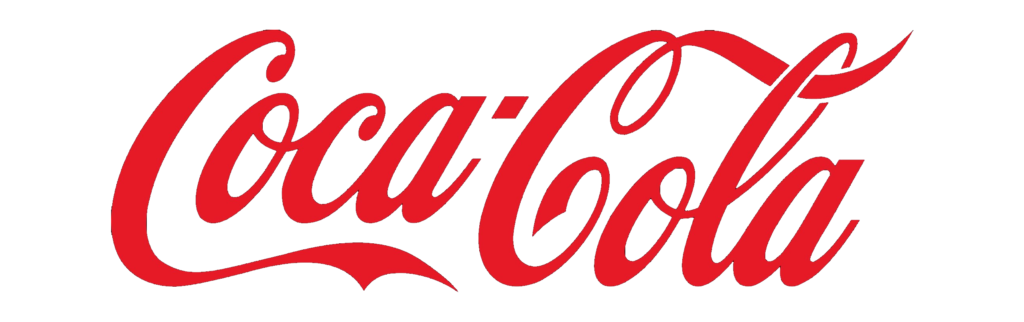
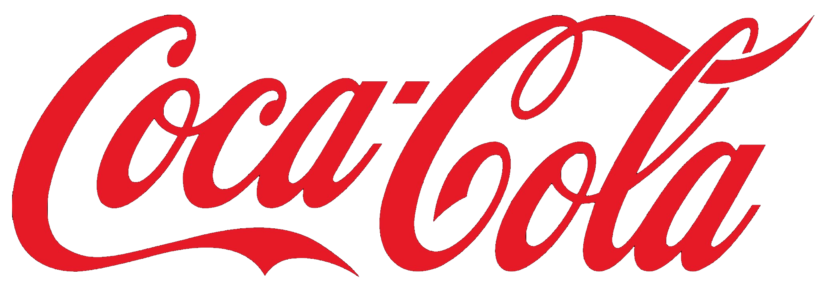
chore: restyle sponsorer and add thanks note

diff --git a/ui/src/modules/basket/sponsors/components/FIRI/Jets/Sponsors.tsx b/ui/src/modules/basket/sponsors/components/FIRI/Jets/Sponsors.tsx
@@ -5,7 +5,7 @@ import SponsorsContainer from "../../shared/SponsorsContainer";
 import nte from "./sponsors/nte.png";
 import norbit from "./sponsors/norbit.png";
 import hufs from "./sponsors/hufs.png";
-import multRenhold from "./sponsors/multi_renhold.jpg";
+import multRenhold from "./sponsors/multi_renhold.png";
 import cola from "./sponsors/cola.png";
 import nidarosSparebank from "./sponsors/nidaros_sparebank.png";
 import weCanDoIt from "./sponsors/we_can_do_it.png";
@@ -32,10 +32,10 @@ const JetsSponsors: React.FC = () => {
     nte,
     weCanDoIt,
     nidarosSparebank,
-    norbit,
+    multRenhold,
     cola,
     hufs,
-    multRenhold,
+    norbit,
     soulsport,
   ];
 

diff --git a/ui/src/modules/basket/sponsors/components/shared/SponsorsContainer.tsx b/ui/src/modules/basket/sponsors/components/shared/SponsorsContainer.tsx
@@ -6,7 +6,16 @@ type SponsorsContainerProps = {
 };
 
 const SponsorsContainer: React.FC<SponsorsContainerProps> = ({ children }) => {
-  return <div className={styles.container}>{children}</div>;
+  return (
+    <div className={styles.container}>
+      <div style={{ display: "flex", flexDirection: "column", height: "100%" }}>
+        <h1 style={{ textAlign: "center" }}>
+          Teamname vil takke sine sponsorer
+        </h1>
+        {children}
+      </div>
+    </div>
+  );
 };
 
 export default SponsorsContainer;

diff --git a/ui/src/modules/basket/sponsors/components/shared/SponsorsContainer.module.css b/ui/src/modules/basket/sponsors/components/shared/SponsorsContainer.module.css
@@ -19,15 +19,16 @@
   width: 96%;
   align-items: center;
   justify-content: space-around;
-  height: 33%;
+  height: 30%;
 }
 
 .item {
   display: flex;
-  margin: 5%;
+  margin: 2%;
   width: 100%;
   justify-content: center;
   height: 90%;
+  align-items: center;
 }
 
 .item img {

diff --git a/ui/src/modules/basket/sponsors/reducer.ts b/ui/src/modules/basket/sponsors/reducer.ts
@@ -5,7 +5,7 @@ type SponsorState = {
 };
 
 const initialState: SponsorState = {
-  showSponsors: false,
+  showSponsors: true,
 };
 
 const sponsorSlice = createSlice({
